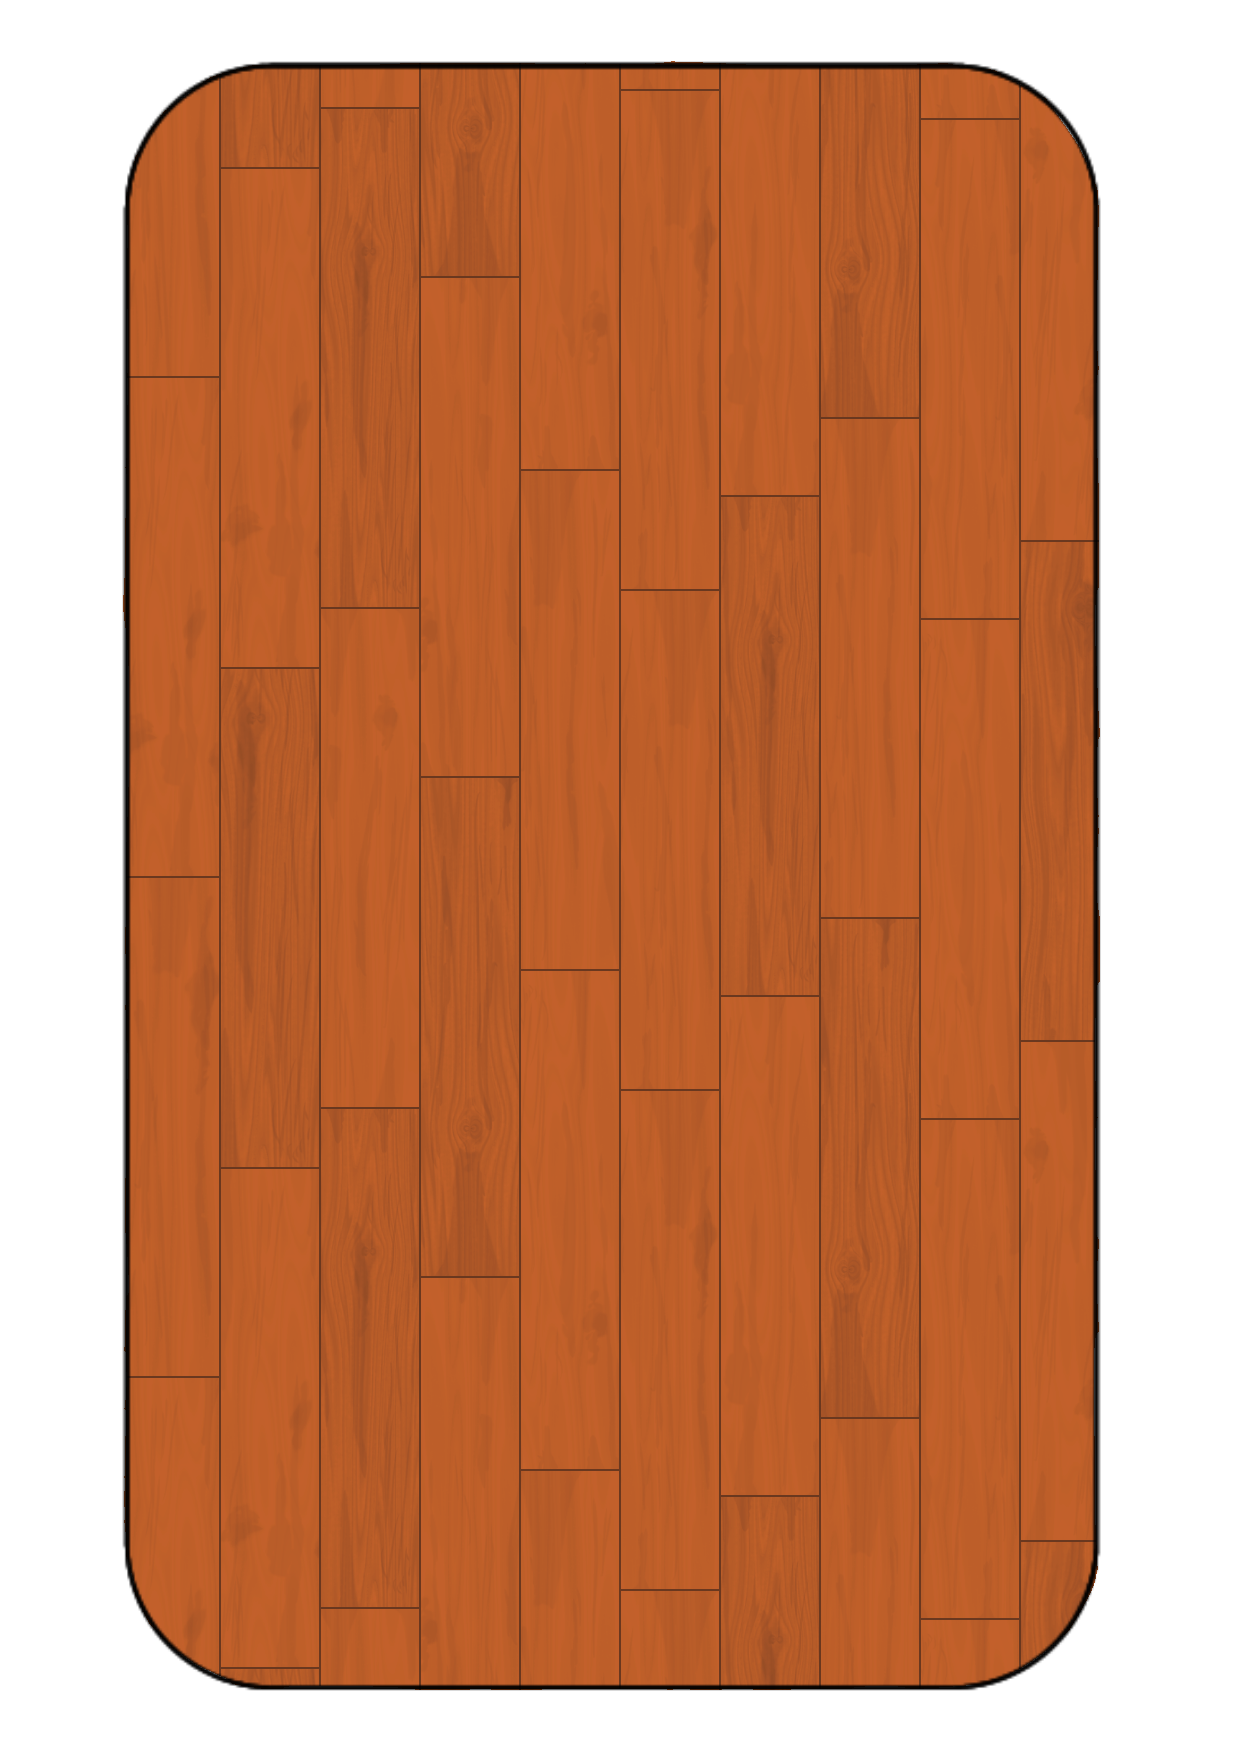
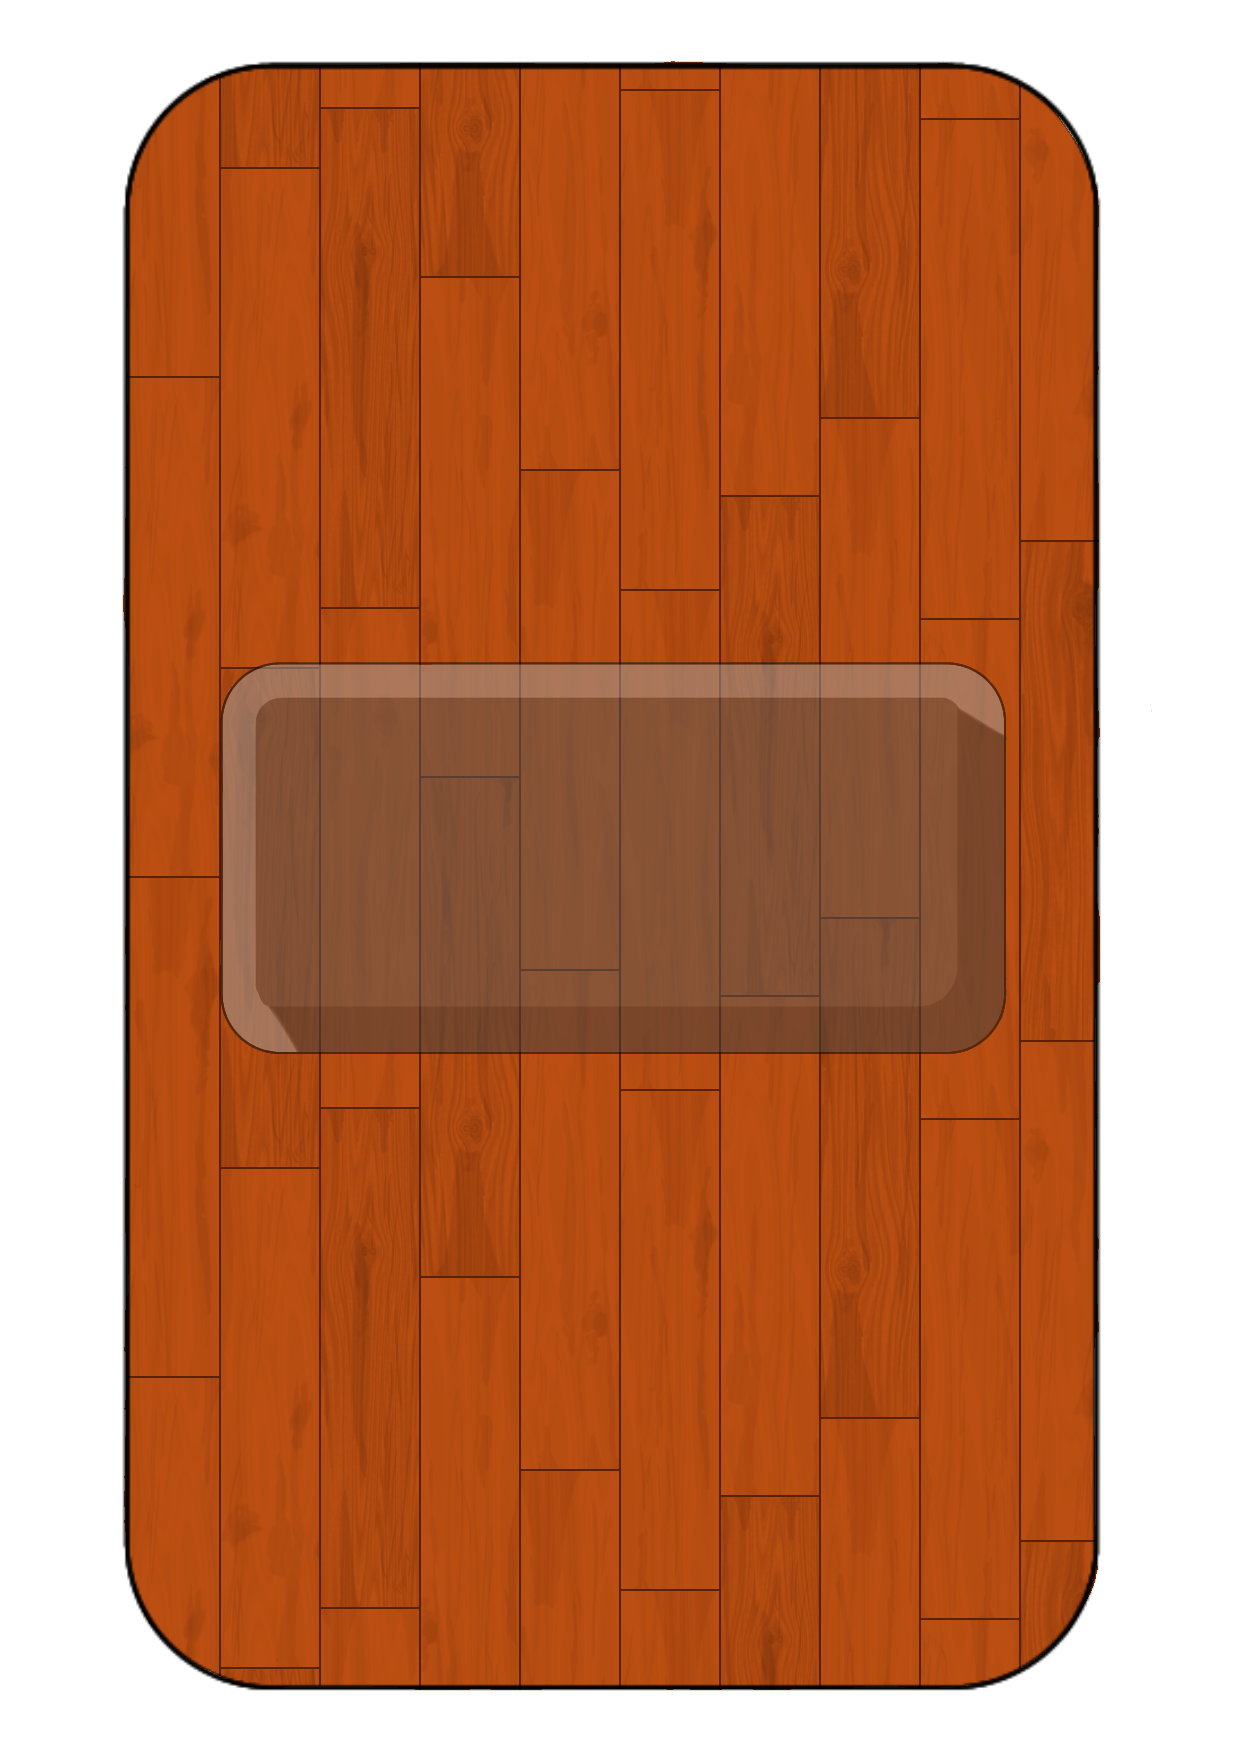
fixing promotion

diff --git a/ChessEngine.cpp b/ChessEngine.cpp
@@ -13,6 +13,12 @@ using namespace std;
 // Includes all functions of sfml library
 using namespace sf; 
 
+const sf::Vector2f promotionUIpos[4] = {
+    {870.f, 350.f},
+    {942.f, 350.f},
+    {1014.f, 350.f},
+    {1086.f, 350.f}
+};
 int main()
 {
 // render window for the chess board
@@ -58,6 +64,7 @@ int main()
         whitepawn[i].sprite.setScale({0.1855f, 0.1855f});
     }
     vector<rook> whiterook;
+    whiterook.reserve(10);
     for(int i = 0; i < 2; i++)
     {
         whiterook.emplace_back(whiterooktexture, true);
@@ -70,6 +77,7 @@ int main()
         whiterook[i].sprite.setScale({0.1855f, 0.1855f});
     }
     vector<knight> whiteknight;
+    whiteknight.reserve(10);
     for(int i = 0; i < 2; i++)
     {
         whiteknight.emplace_back(whiteknighttexture, true);
@@ -89,6 +97,7 @@ int main()
         whiteknight[i].sprite.setScale({0.1855f, 0.1855f});
     }
     vector<bishop> whitebishop;
+    whitebishop.reserve(10);
     for(int i = 0; i < 2; i++)
     {
         whitebishop.emplace_back(whitebishoptexture, true);
@@ -111,6 +120,7 @@ int main()
         whitebishop[i].sprite.setScale({0.1855f, 0.1855f});
     }
     vector<queen> whitequeen;
+    whitequeen.reserve(9);
     for(int i = 0; i < 1; i++)
     {
         whitequeen.emplace_back(whitequeentexture, true);
@@ -144,6 +154,7 @@ int main()
         blackpawn[i].sprite.setScale({0.1855f, 0.1855f});
     }
     vector<rook> blackrook;
+    blackrook.reserve(10);
     for(int i = 0; i < 2; i++)
     {
         blackrook.emplace_back(blackrooktexture, false);
@@ -156,6 +167,7 @@ int main()
         blackrook[i].sprite.setScale({0.1855f, 0.1855f});
     }
     vector<knight> blackknight;
+    blackknight.reserve(10);
     for(int i = 0; i < 2; i++)
     {
         blackknight.emplace_back(blackknighttexture, false);
@@ -176,6 +188,7 @@ int main()
         blackknight[i].sprite.setScale({0.1855f, 0.1855f});
     }
     vector<bishop> blackbishop;
+    blackbishop.reserve(10);
     for(int i = 0; i < 2; i++)
     {
         blackbishop.emplace_back(blackbishoptexture, false);
@@ -196,6 +209,7 @@ int main()
         blackbishop[i].sprite.setScale({0.1855f, 0.1855f});
     }
     vector<queen> blackqueen;
+    blackqueen.reserve(9);
     for(int i = 0; i < 1; i++)
     {
         blackqueen.emplace_back(blackqueentexture, false);
@@ -299,6 +313,8 @@ int main()
     vector <Vector2f> highlightmoves;
     bool SELECTED;
     int turn = 0;
+    piece* pendingPromotion = nullptr;
+    bool white_pendingPromotion = false;
 // Event handling...
     while(window.isOpen())
     {
@@ -308,10 +324,12 @@ int main()
             {
                 window.close();
             }
+
             // piece movment and capture
             if(event->is<Event::MouseButtonPressed>())
             {
                 auto * mb = event->getIf<Event::MouseButtonPressed>();
+                
                 if(mb->button == Mouse::Button::Left)
                 {
                     Vector2i mousepixel = Mouse::getPosition(window);
@@ -319,6 +337,64 @@ int main()
                     vector <piece*>& active = (turn % 2 == 0)? b.whitepiece : b.blackpiece;
                     vector <piece*>& not_active = (turn % 2 == 0)? b.blackpiece : b.whitepiece;
                     bool moved = false;
+
+                    if(pendingPromotion != nullptr)
+                    {
+                        for(int i = 0; i < 4; i++)
+                        {
+                            sf::FloatRect choiceBounds(promotionUIpos[i], {72.f, 72.f});
+                            if(choiceBounds.contains(mousepos))
+                            {
+                                piece* newPiece = nullptr;
+                                if(i == 0)
+                                {
+                                    newPiece = new queen(white_pendingPromotion ? whitequeentexture : blackqueentexture, pendingPromotion->is_White);
+                                }
+                                else if(i == 1)
+                                {
+                                    newPiece = new rook(white_pendingPromotion ? whiterooktexture : blackrooktexture, pendingPromotion->is_White);
+                                }
+                                else if(i == 2)
+                                {
+                                    newPiece = new bishop(white_pendingPromotion ? whitebishoptexture : blackbishoptexture, pendingPromotion->is_White);
+                                }
+                                else
+                                {
+                                    newPiece = new knight(white_pendingPromotion ? whiteknighttexture : blackknighttexture, pendingPromotion->is_White);
+                                }
+
+                                if(newPiece != nullptr)
+                                {
+                                    newPiece->row = pendingPromotion->row;
+                                    newPiece->column = pendingPromotion->column;
+                                    newPiece->sprite.setPosition(b.get_Position(static_cast<int>(newPiece->row), static_cast<int>(newPiece->column)));
+                                    if(pendingPromotion->is_White)
+                                    {
+                                        b.whitepiece.push_back(newPiece);
+                                        auto it = std::find(b.whitepiece.begin(), b.whitepiece.end(), pendingPromotion);
+                                        if(it != b.whitepiece.end())
+                                        {
+                                            b.whitepiece.erase(it);
+                                        }
+                                    }
+                                    else
+                                    {
+                                        b.blackpiece.push_back(newPiece);
+                                        auto it = std::find(b.blackpiece.begin(), b.blackpiece.end(), pendingPromotion);
+                                        if(it != b.blackpiece.end())
+                                        {
+                                            b.blackpiece.erase(it);
+                                        }
+                                    }
+                                    b.capturePiece(pendingPromotion);
+                                    pendingPromotion->is_Alive = false;
+                                    pendingPromotion = nullptr;
+                                    turn++;
+                                    break;
+                                }
+                            }
+                        }
+                    }
 
                     if(selectedpiece != nullptr)
                     {
@@ -329,6 +405,8 @@ int main()
                             {
                                 Vector2f idx = b.get_Index(k.x,k.y);
                                 piece* target = b.getPieceLoc(idx.x,idx.y);
+                                selectedpiece->row = idx.x;
+                                selectedpiece->column = idx.y;
                                 if(target != nullptr and target->is_White != selectedpiece->is_White)
                                 {
                                 b.capturePiece(target);
@@ -341,14 +419,7 @@ int main()
                                         b.capturePiece(p);
                                     }
                                 }
-                                if(selectedpiece->is_pawn and ((selectedpiece->is_White and idx.y == 0) or (!selectedpiece->is_White and idx.y == 7)))
-                                {
-                                    selectedpiece->sprite.setTexture(whitequeentexture);
-                                    selectedpiece->is_pawn = false;
-                                }
-                                {
 
-                                }
                                 if(selectedpiece->is_king and selectedpiece->is_First_Move and selectedpiece->is_castling)
                                 {
                                     if(idx.x == 2)
@@ -373,8 +444,6 @@ int main()
                                         }
                                     }
                                 }
-                                selectedpiece->row = idx.x;
-                                selectedpiece->column = idx.y;
                                 selectedpiece->is_First_Move = false;
                                 selectedpiece->sprite.setPosition(b.get_Position(static_cast<int>(idx.x),static_cast<int>(idx.y)));
                                 selectedpiece->is_Selected = false;
@@ -586,6 +655,22 @@ for(int j = 0; j <= 1 ; j ++)
         blackturn.setFillColor(Color(255,255,255));
         blackturn.setPosition({905, 100});
         window.draw(blackturn);
+    }
+    if(pendingPromotion != nullptr)
+    {
+        Sprite qChoice(white_pendingPromotion ? whitequeentexture : blackqueentexture);
+        Sprite rChoice(white_pendingPromotion ? whiterooktexture : blackrooktexture);
+        Sprite bChoice(white_pendingPromotion ? whitebishoptexture : blackbishoptexture);
+        Sprite kChoice(white_pendingPromotion ? whiteknighttexture : blackknighttexture);
+
+        Sprite* choices[4] = {&qChoice, &rChoice, &bChoice, &kChoice};
+        for(int i = 0; i < 4; i++)
+        {
+            choices[i]->setPosition(promotionUIpos[i]);
+            choices[i]->setScale({0.1406f, 0.1406f});
+            window.draw(*choices[i]);
+        }
+
     }
 }
 // function in sfml to display the rendered graphics

diff --git a/pawn.cpp b/pawn.cpp
@@ -71,7 +71,7 @@
 
             // Promotion
             sf::Vector2f pos = {row, column};
-            if(pos.x == 7.f or pos.y == 0.f)
+            if(pos.y == 7.f or pos.y == 0.f)
                 can_Promote = true;
 
             return possible_moves;
